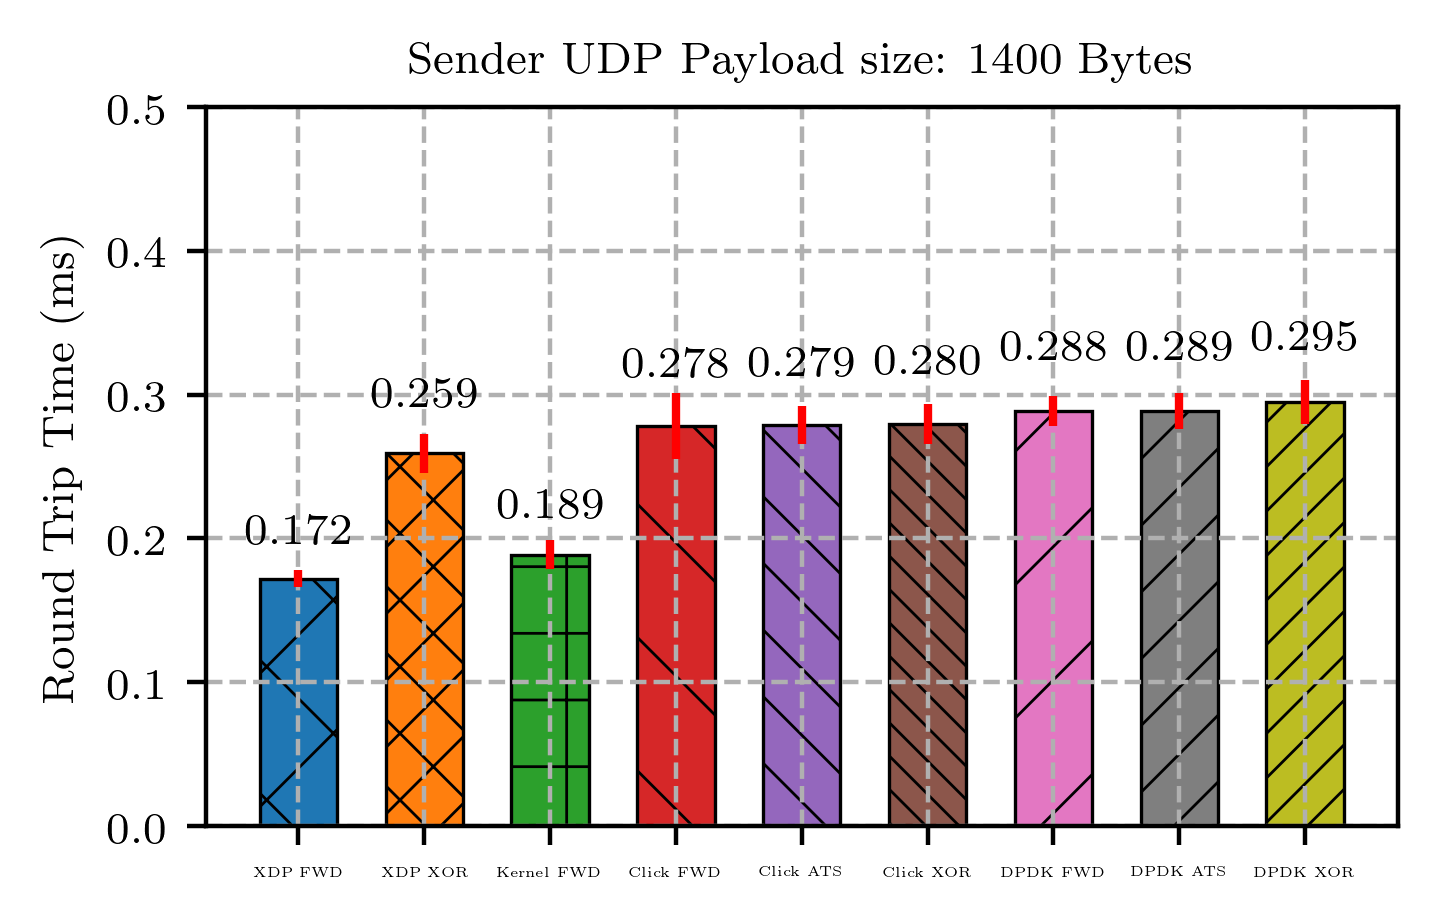
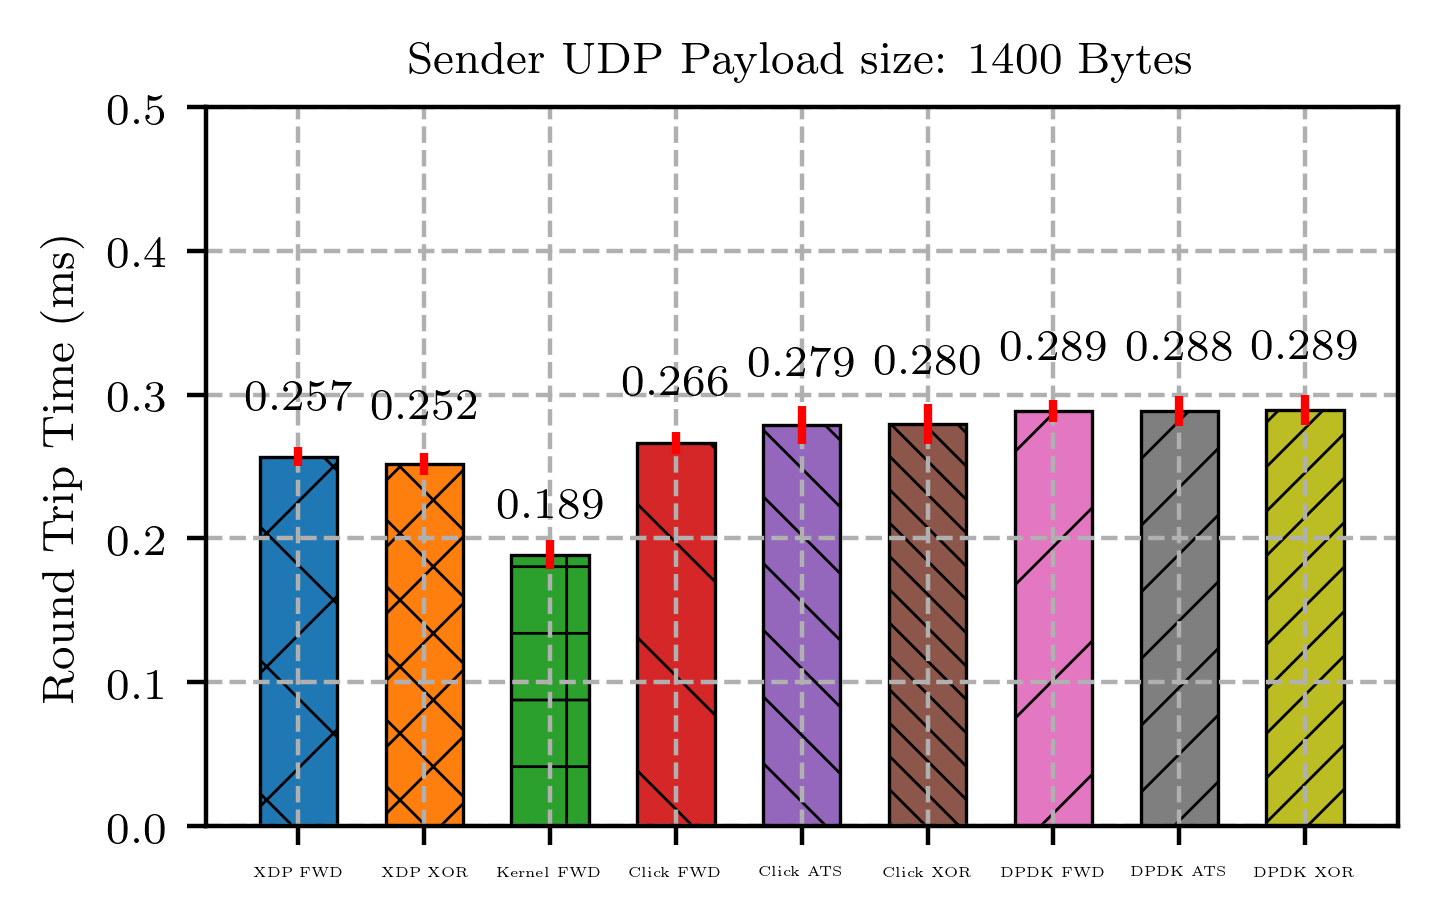
<data>: Add XDP forwarding with UDP PS 1400B

diff --git a/evaluation/round_trip_time/plot.py b/evaluation/round_trip_time/plot.py
@@ -36,16 +36,17 @@ def save_fig(fig, path, fmt=FIG_FMT):
                 bbox_inches='tight', dpi=400, format=fmt)
 
 
-def warn_three_std(value_arr, path=None, remove=False):
-    """Raise exception if the value is not in the three std +- mean value of
+def warn_x_std(value_arr, path=None, ret_inv_lst=False, x=3):
+    """Raise exception if the value is not in the x std +- mean value of
     value_arr
     """
     avg = np.average(value_arr)
     std = np.std(value_arr)
+    invalid_index = list()
 
     for idx, value in enumerate(value_arr):
-        if (abs(value - avg) >= 3.0) * std:
-            if not remove:
+        if (abs(value - avg) >= x * std):
+            if not ret_inv_lst:
                 if path:
                     error_msg = 'Line: %d, Value: %s is not located in three std range, path: %s' % (
                         (idx + 1), value, path)
@@ -54,10 +55,10 @@ def warn_three_std(value_arr, path=None, remove=False):
                         (idx + 1), value, ', '.join(map(str, value_arr)))
                 raise RuntimeError(error_msg)
             else:
-                del value_arr[idx]
+                invalid_index.append(idx)
 
     print('[DEBUG] Len of value_arr: %d' % len(value_arr))
-    return value_arr
+    return (value_arr, invalid_index)
 
 
 def calc_rtt_lst(subdir, csv_tpl, var_lst, grp_step=10):
@@ -72,7 +73,7 @@ def calc_rtt_lst(subdir, csv_tpl, var_lst, grp_step=10):
         rtt_arr = rtt_arr[:, WARM_UP_NUM:]
         # Calc hwci step by step to check if more measurements should be
         # performed
-        print('Current csv template: %s' % csv_tpl)
+        print('Current CSV name: %s' % csv_name)
         for step in range(grp_step, rtt_arr.shape[0] + 1, grp_step):
             print('Current group step: %d' % step)
             step_rtt_arr = rtt_arr[:step, :]
@@ -84,7 +85,18 @@ def calc_rtt_lst(subdir, csv_tpl, var_lst, grp_step=10):
         if neg_sign in signs:
             raise RuntimeError('Found negative RTT value in %s.' % csv_path)
         tmp_list = np.average(rtt_arr, axis=1)
-        tmp_list = warn_three_std(tmp_list, csv_path)
+        tmp_list, invalid_index = warn_x_std(tmp_list, csv_path,
+                                             ret_inv_lst=True, x=3)
+        if invalid_index:
+            print('[WARN] Remove invalid rows from the CSV file')
+            print('Invalid rows: %s' % ', '.join(map(str, invalid_index)))
+            data = np.genfromtxt(csv_path, delimiter=',',
+                                 usecols=list(range(0, TOTAL_PACK_NUM)))
+            data = np.delete(data, invalid_index, axis=0)
+            np.savetxt(csv_path, data, delimiter=',')
+            raise RuntimeError('Found invalid rows, rows are already removed.' +
+                               ' Run the plot program again')
+
         rtt_result_lst.append(
             # Average value and confidence interval
             (np.average(tmp_list), calc_hwci(tmp_list, confidence=0.99))
@@ -119,7 +131,7 @@ def plot_ipd():
 
     techs = ['udp_rtt_' + x +
              '_%sms.csv' for x in (
-                 'xdp_fwd', 'xdp_xor_1400B',
+                 'xdp_fwd_1400B', 'xdp_xor_1400B',
                  'lkfwd',
                  'click_fwd_1400B', 'click_appendts_1400B', 'click_xor_1400B',
                  'dpdk_fwd_1400B', 'dpdk_appendts_1400B', 'dpdk_xor_1400B'

diff --git a/dpdk/app/udp_test/main.c b/dpdk/app/udp_test/main.c
@@ -975,6 +975,10 @@ int main(int argc, char** argv)
         /* MARK: This function is not supported in DPDK 17.11 */
         /*nb_ports = rte_eth_dev_count_avail();*/
         nb_ports = 2;
+        if (single_port) {
+                nb_ports = 1;
+        }
+
         RTE_LOG(INFO, USER1, "Number of to be used ports: %d\n", nb_ports);
         /*if (nb_ports == 0)*/
         /*rte_exit(EXIT_FAILURE, "No Ethernet ports - bye\n");*/
